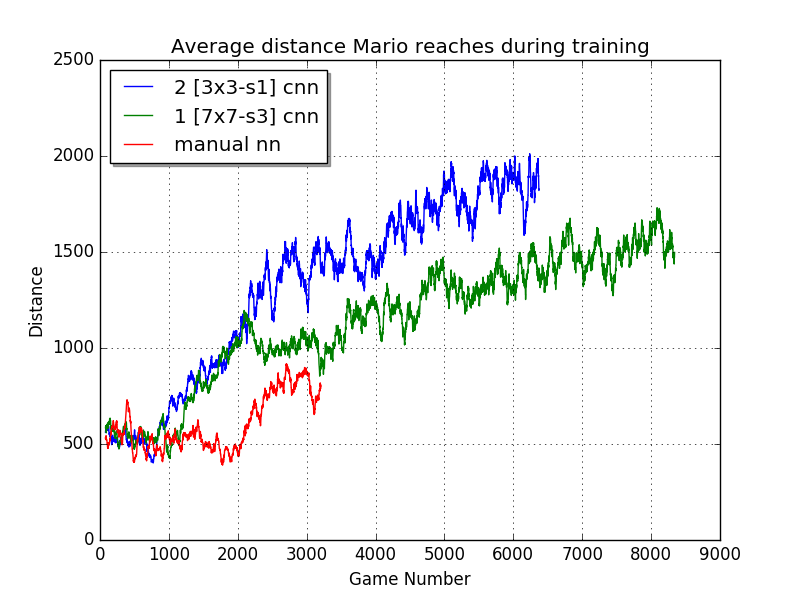
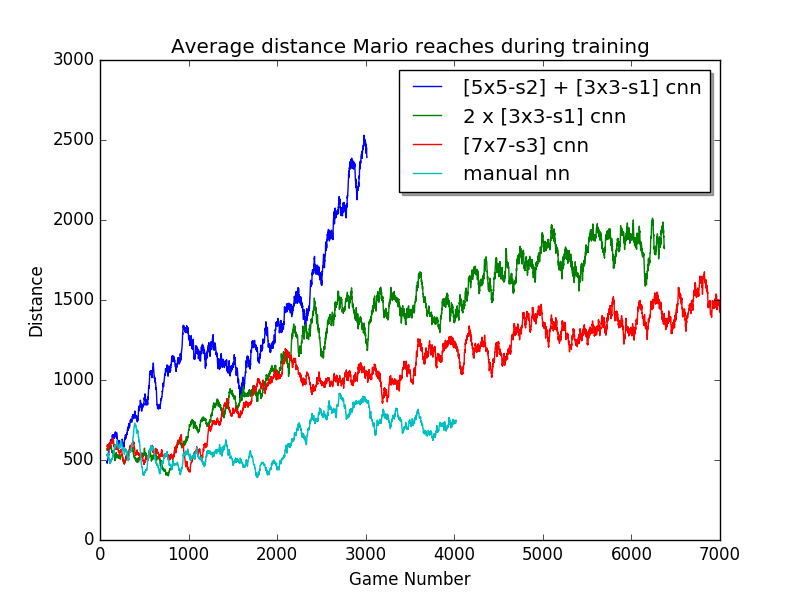
new figs and add setup and test scripts

diff --git a/tools/plot_exps.py b/tools/plot_exps.py
@@ -4,7 +4,7 @@ import numpy as np
 from os import path
 from plot_scores import *
 
-def plot(options, labels, name, xlim=None):
+def plot(options, labels, name, xlim=None, legendloc=None):
     fig, ax = plt.subplots()
 
     for path in labels:
@@ -16,14 +16,19 @@ def plot(options, labels, name, xlim=None):
 
     if xlim is not None:
         ax.set_xlim(xlim)
-    legend = ax.legend(loc='upper left', shadow=True)
+
+    if legendloc is None:
+        legendloc = 'upper left'
+    legend = ax.legend(loc=legendloc, shadow=True)
     fig.savefig('figs/' + name + ".png")
     plt.show()
 
 def plot_exprate_comp(options):
     labels = {}
-    labels['model/20171213_164419'] = 'Adaptive Exploration Rate'
-    labels['model/20171213_165416'] = 'Fixed Exploration Rate = 0.3'
+    labels['model/20171213_164419'] = 'manual-adaptive'
+    labels['model/20171213_165416'] = 'manual-fixed (0.3)'
+    labels['model/20171212_182429'] = 'cnn-adaptive'
+    labels['model/20171214_161615'] = 'cnn-fixed (0.3)'
 
     plot(options, labels, 'exprate_comp', xlim=None)
     return options
@@ -39,9 +44,9 @@ def plot_reward_comp(options):
 
 def plot_batch_comp(options):
     labels = {}
-    labels['model/20171212_182429'] = 'batch=20, #Batch=11, updateInterval=10'
-    labels['model/20171210_154650'] = 'batch=64, #Batch=16, updateInterval=64'
-    labels['model/20171212_210533'] = 'batch=128, #Batch=16, updateInterval=256'
+    labels['model/20171212_182429'] = 'batch=20 #Batch=11 updateInterval=10'
+    labels['model/20171212_181553'] = 'batch=64 #Batch=16 updateInterval=64'
+    labels['model/20171212_210533'] = 'batch=128 #Batch=16 updateInterval=256'
 
     plot(options, labels, 'batch_comp', xlim=None)
 
@@ -61,10 +66,11 @@ def plot_arch_comp(options):
     labels = {}
     # labels['saved_model/manual'] = 'manual nn'
     labels['model/20171213_164419'] = 'manual nn'
-    labels['saved_model/CNN_action'] = '1 [7x7-s3] cnn'
-    labels['model/20171212_182429'] = '2 [3x3-s1] cnn'
+    labels['saved_model/CNN_action'] = '[7x7-s3] cnn'
+    labels['saved_model/best_model'] = '[5x5-s2] + [3x3-s1] cnn'
+    labels['model/20171212_182429'] = '2 x [3x3-s1] cnn'
 
-    plot(options, labels, 'arch_comp')
+    plot(options, labels, 'arch_comp', xlim=[0, 7000], legendloc='upper right')
 
     return options
 
@@ -105,7 +111,7 @@ def set_paths(options):
       #--maxGameIter=3000 \
       #--load --model_dir $MODEL/
     
-    paths.append('model/20171210_154650')
+    paths.append('model/20171212_181553')
     #./xvfb-run-safe -s "-screen 0 1400x900x24" python run.py --player=cnn --train \
       #--conv_model=1 \
       #--maxGameIter=3000 \
@@ -175,7 +181,16 @@ def set_paths(options):
       #--maxGameIter=3000 \
       #--load --model_dir $MODEL/
 
+    # tucson
+    paths.append('model/20171214_161615')
+    #./xvfb-run-safe -s "-screen 0 1400x900x24" python run.py --player=cnn --train \
+      #--conv_model=1 \
+      #--explorationProb=0.3 \
+      #--maxGameIter=3000 \
+      #--load --model_dir $MODEL/
+
     paths.append('saved_model/manual')
+    paths.append('saved_model/best_model')
     options.paths = paths
     return options
 
